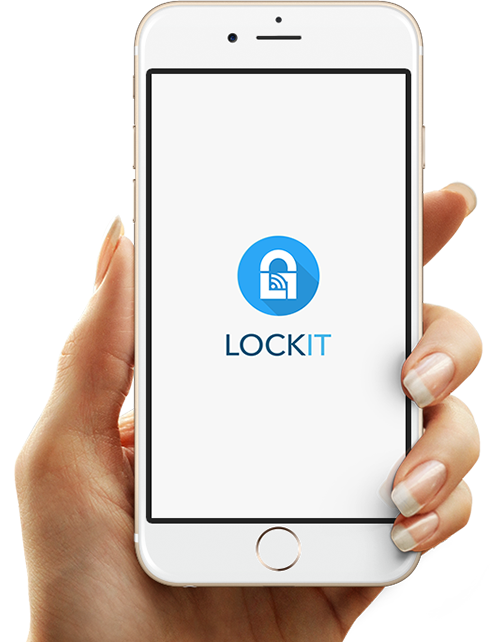
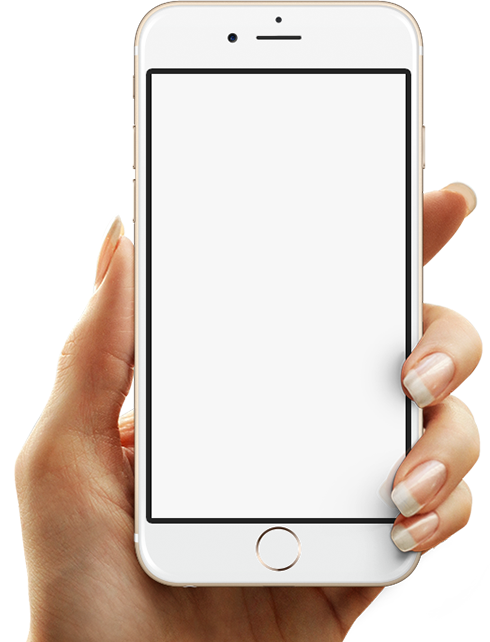
Add widget on iphone

Changed region(s): [[0.4592, 0.3427, 0.6735, 0.5607]]

diff --git a/css/style.css b/css/style.css
@@ -881,21 +881,21 @@ a.btn-orderone i{
 
 
 .modal-notify{
-   background: rgba(0,0,0,.6);
-   position: fixed;
-   width: 100%;
-   height: 100%;
-   top: 0;
-   left: 0;
-   right: 0;
-   bottom: 0;
-   z-index: 20;
-   visibility: hidden;
-   opacity: 0;
-   -webkit-transition: all .3s ease-in-out;
-   -moz-transition: all .3s ease-in-out;
-   -o-transition: all .3s ease-in-out;
-   transition: all .3s ease-in-out;
+ background: rgba(0,0,0,.6);
+ position: fixed;
+ width: 100%;
+ height: 100%;
+ top: 0;
+ left: 0;
+ right: 0;
+ bottom: 0;
+ z-index: 20;
+ visibility: hidden;
+ opacity: 0;
+ -webkit-transition: all .3s ease-in-out;
+ -moz-transition: all .3s ease-in-out;
+ -o-transition: all .3s ease-in-out;
+ transition: all .3s ease-in-out;
 }
 
 .modal-notify.hide{
@@ -1182,6 +1182,23 @@ a.btn-orderone i{
         -moz-transform: translateY(0);
         -o-transform: translateY(0);
         transform: translateY(0);
+    }
+
+    .lk-header .lk-handiphone .widget-holder{
+        width: 238px;
+        position: absolute;
+        left: 160px;
+        top: 90px;
+        height: 155px;
+    }
+
+    .lk-header .widget-holder h3{
+        text-align: center;
+        margin-bottom: 30px;
+    }
+
+    .lk-header .widget-holder h3 img{
+        display: inline-block;
     }
 
     .section-howitworks aside img.iphone{

diff --git a/index.html b/index.html
@@ -29,7 +29,13 @@
             </div>
         </div>
         <header class="lk-header-inner wrapper clearfix">
-            <img class="lk-handiphone" src="img/hand.png" alt=""/>
+            <div class="lk-handiphone">
+                <div class="widget-holder">
+                    <h3><img src="img/logo-lockit-iphone.png" alt=""/></h3>
+                    <section><queue-gateway queue-product="ac922541" type="vertical"></queue-gateway></section>
+                </div>
+                <img src="img/hand.png" alt=""/>
+            </div>
             <div class="lk-bnr-details">
                 <p class="lk-first-p">Technology met its match</p>
                 <p class="lk-bnr-text">introducing</p>
